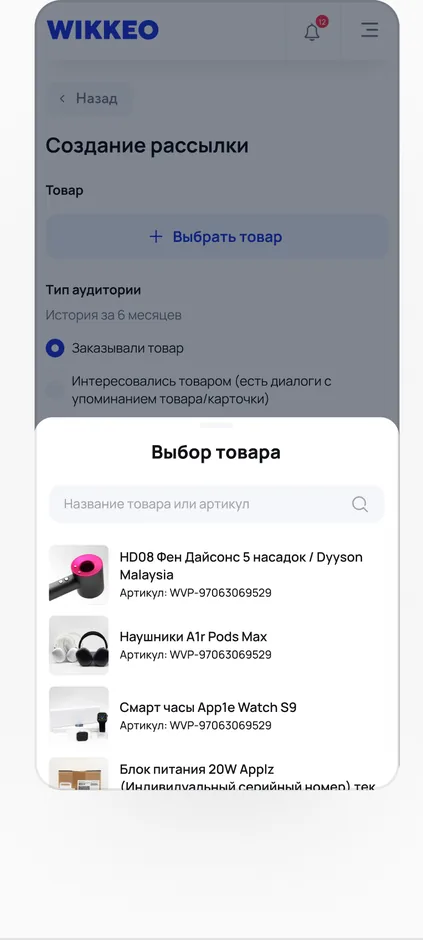
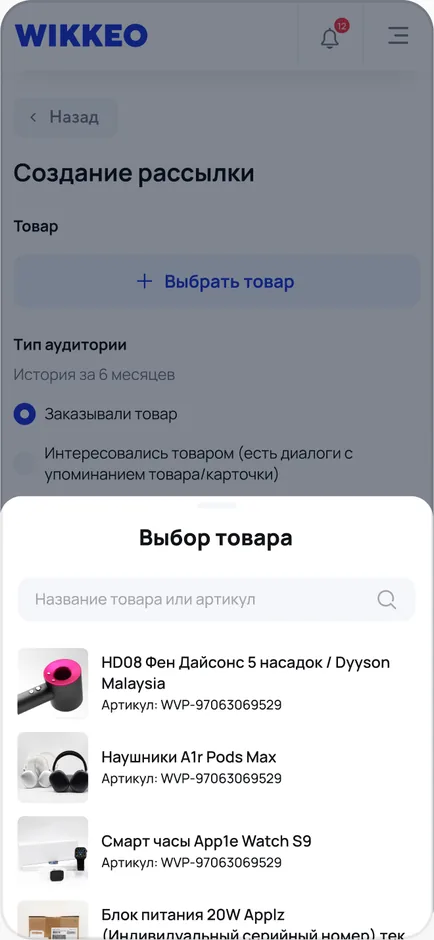
fix: outlines on flat screenshots, no divider junk in the phone crops
Три правки к нарезке и краям экранов:

- Under every screen in the exported rows runs a full-width divider line.
  The trim treated it as content, so each phone mockup carried that line plus
  a band of empty shadow below it. A row that is uniform edge to edge is a
  divider, never a screen — a screen always leaves card background at its
  sides. Dividers are now stripped before the side trim, which also had to
  move after it: the divider spans every column, so it was blocking that too.
- The seller screens came from raw source bitmaps with square corners and no
  contour, unlike every other screen. Rounded to r=20 with a 2px hairline in
  the same tone, corners transparent.
- Browser and player screenshots have a straight, contourless edge and were
  dissolving into the card. Their 1px border is back, alongside the radius.

Changed region(s): [[0.0, 0.0, 1.0, 1.0], [0.3688, 0.2468, 0.6761, 0.3394], [0.7376, 0.0, 0.7991, 0.0617]]

diff --git a/case-wikkeo-monetization.html b/case-wikkeo-monetization.html
@@ -27,7 +27,7 @@
 <link rel="icon" href="/favicon.svg" type="image/svg+xml">
 <link rel="apple-touch-icon" href="/apple-touch-icon.png">
 <link rel="preload" href="assets/fonts/inter-cyrillic.woff2" as="font" type="font/woff2" crossorigin>
-<link rel="stylesheet" href="site.css?v=7561fd0d">
+<link rel="stylesheet" href="site.css?v=19d8480c">
 <!-- Мост захвата в Figma: грузится только при открытии страницы
      с хешем #figmacapture=..., поэтому посетителям сторонний скрипт не уходит. -->
 <script>
@@ -186,23 +186,23 @@ if (location.hash.includes('figmacapture')) {
         <div class="carousel__viewport">
           <div class="carousel__track">
             <div class="carousel__pane">
-              <img class="carousel__slide" src="assets/case/mon-flow-1.webp" width="189" height="470"
+              <img class="carousel__slide" src="assets/case/mon-flow-1.webp" width="210" height="470"
                    alt="Рассылка по чатам: баланс пуст, рассылок еще нет">
             </div>
             <div class="carousel__pane">
-              <img class="carousel__slide" src="assets/case/mon-flow-2.webp" width="201" height="470"
+              <img class="carousel__slide" src="assets/case/mon-flow-2.webp" width="216" height="470"
                    alt="Создание рассылки: выбор товара и тип аудитории">
             </div>
             <div class="carousel__pane">
-              <img class="carousel__slide" src="assets/case/mon-flow-3.webp" width="212" height="470"
+              <img class="carousel__slide" src="assets/case/mon-flow-3.webp" width="217" height="470"
                    alt="Выбор товара из каталога продавца">
             </div>
             <div class="carousel__pane">
-              <img class="carousel__slide" src="assets/case/mon-flow-4.webp" width="206" height="470"
+              <img class="carousel__slide" src="assets/case/mon-flow-4.webp" width="218" height="470"
                    alt="Расчет охвата и стоимости перед запуском">
             </div>
             <div class="carousel__pane">
-              <img class="carousel__slide" src="assets/case/mon-flow-5.webp" width="194" height="470"
+              <img class="carousel__slide" src="assets/case/mon-flow-5.webp" width="217" height="470"
                    alt="Готовое предложение в чате у покупателя">
             </div>
           </div>
@@ -227,7 +227,7 @@ if (location.hash.includes('figmacapture')) {
                    alt="Предложение от продавца в чате покупателя">
             </div>
             <div class="carousel__pane">
-              <img class="carousel__slide" src="assets/case/mon-chat-2.webp" width="617" height="470"
+              <img class="carousel__slide" src="assets/case/mon-chat-2.webp" width="632" height="470"
                    alt="Тот же чат со стороны кабинета продавца">
             </div>
           </div>

diff --git a/site.css b/site.css
@@ -514,10 +514,11 @@ img{display:block}
 .carousel__pane{flex:0 0 100%; display:flex; justify-content:center; align-items:center}
 .carousel__slide{height:var(--slide-h,450px); width:auto; max-width:100%;
   user-select:none; -webkit-user-drag:none}
-/* Никаких обводок и теней поверх макетов: они выгружены из фигмы со своими
-   краями, а лишний кант читался как рамка и раздувал сам макет.
-   Скруглить нужно только скриншоты браузера и плеера — у них край прямой. */
-.carousel--wide .carousel__slide{border-radius:12px}
+/* Экраны приложений выгружены из макетов со своими краями и контуром —
+   поверх них ничего не рисуем, иначе получается лишний кант.
+   А у скриншотов браузера и плеера край прямой и без контура: они нуждаются
+   и в скруглении, и в тонкой обводке, иначе растворяются в карточке. */
+.carousel--wide .carousel__slide{border-radius:12px; border:1px solid var(--line)}
 /* одиночный визуал: листать нечего, вписываем по ширине карточки */
 .fig__img{max-width:100%; height:auto}
 

diff --git a/case-premier-offline.html b/case-premier-offline.html
@@ -27,7 +27,7 @@
 <link rel="icon" href="/favicon.svg" type="image/svg+xml">
 <link rel="apple-touch-icon" href="/apple-touch-icon.png">
 <link rel="preload" href="assets/fonts/inter-cyrillic.woff2" as="font" type="font/woff2" crossorigin>
-<link rel="stylesheet" href="site.css?v=7561fd0d">
+<link rel="stylesheet" href="site.css?v=19d8480c">
 <!-- Мост захвата в Figma: грузится только при открытии страницы
      с хешем #figmacapture=..., поэтому посетителям сторонний скрипт не уходит. -->
 <script>

diff --git a/case-premier-subscription.html b/case-premier-subscription.html
@@ -27,7 +27,7 @@
 <link rel="icon" href="/favicon.svg" type="image/svg+xml">
 <link rel="apple-touch-icon" href="/apple-touch-icon.png">
 <link rel="preload" href="assets/fonts/inter-cyrillic.woff2" as="font" type="font/woff2" crossorigin>
-<link rel="stylesheet" href="site.css?v=7561fd0d">
+<link rel="stylesheet" href="site.css?v=19d8480c">
 <!-- Мост захвата в Figma: грузится только при открытии страницы
      с хешем #figmacapture=..., поэтому посетителям сторонний скрипт не уходит. -->
 <script>

diff --git a/case-wikkeo-bargaining.html b/case-wikkeo-bargaining.html
@@ -27,7 +27,7 @@
 <link rel="icon" href="/favicon.svg" type="image/svg+xml">
 <link rel="apple-touch-icon" href="/apple-touch-icon.png">
 <link rel="preload" href="assets/fonts/inter-cyrillic.woff2" as="font" type="font/woff2" crossorigin>
-<link rel="stylesheet" href="site.css?v=7561fd0d">
+<link rel="stylesheet" href="site.css?v=19d8480c">
 <!-- Мост захвата в Figma: грузится только при открытии страницы
      с хешем #figmacapture=..., поэтому посетителям сторонний скрипт не уходит. -->
 <script>

diff --git a/index.html b/index.html
@@ -28,7 +28,7 @@
 <link rel="apple-touch-icon" href="/apple-touch-icon.png">
 <link rel="preload" href="assets/fonts/inter-cyrillic.woff2" as="font" type="font/woff2" crossorigin>
 <link rel="preload" href="assets/fonts/caveat-cyrillic.woff2" as="font" type="font/woff2" crossorigin>
-<link rel="stylesheet" href="site.css?v=7561fd0d">
+<link rel="stylesheet" href="site.css?v=19d8480c">
 <!-- Figma capture bridge: loaded only when the page is opened with a
      #figmacapture=... hash, so the third-party script never ships to visitors. -->
 <script>
